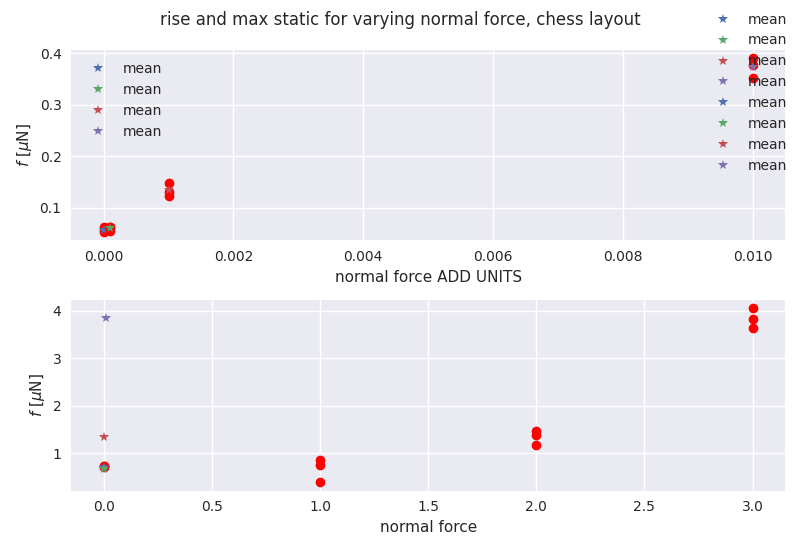
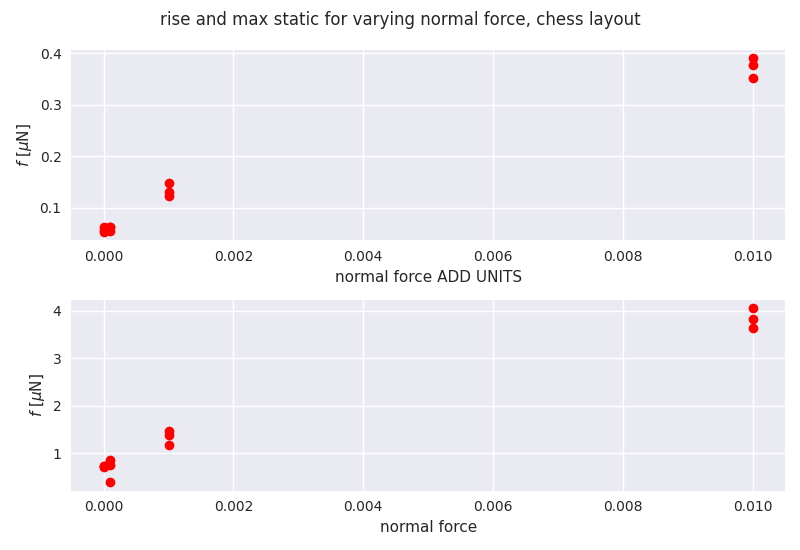
fig update

diff --git a/python/plot/plot_vary_normforce.py b/python/plot/plot_vary_normforce.py
@@ -84,10 +84,10 @@ def load_vs_normal_force():
         for max_static in max_static_all:
             axs[i].plot(max_static[0], max_static[1], 'o')
             axs2[0].plot(normforce, max_static[1], 'or')
-        axs2[0].plot(normforce, max_static_mean[1], '*', label='mean')
+        #axs2[0].plot(normforce, max_static_mean[1], '*', label='mean')
         for rise in rise_all:
-            axs2[1].plot(i, rise, 'or')
-        axs2[1].plot(normforce, rise_mean, '*', label='mean')
+            axs2[1].plot(normforce, rise, 'or')
+        #axs2[1].plot(normforce, rise_mean, '*', label='mean')
         axs2[0].legend()
 
         #height plot
@@ -111,7 +111,7 @@ def load_vs_normal_force():
         #axs[i].set_ylim([-0.03, 0.1])
         axs[i].set_xlabel(r"$t_p$ [ns]")
         axs[i].set_ylabel(r"$f$ [$\mu$N]")
-        axs[i].set_title(f'Normal force {normforce} UNITS')
+        axs[i].set_title(f'Normal force {normforce} [$\mu$N]')
 
     fig.suptitle(f"Load curves for varying selected systems")
     fig.legend()
